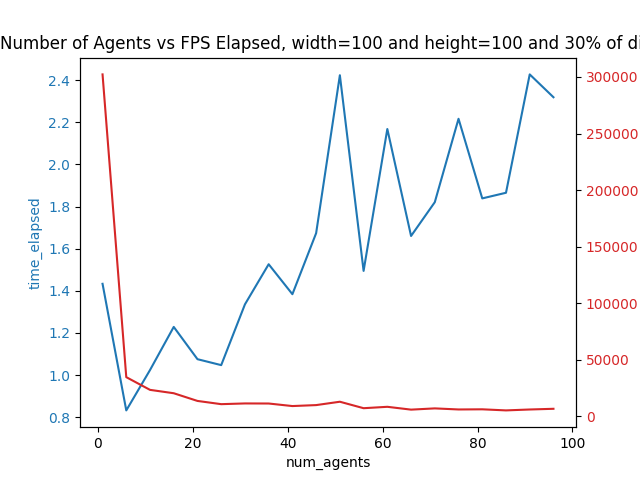
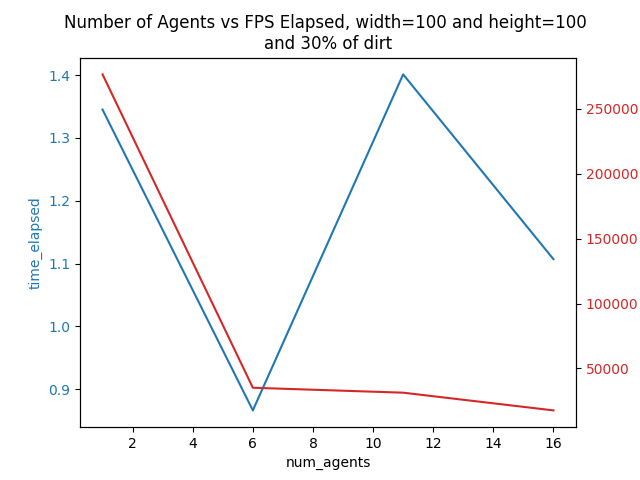
estandarizacion del codigo

diff --git a/Actividad_1.py b/Actividad_1.py
@@ -1,20 +1,32 @@
-# La clase `Model` se hace cargo de los atributos a nivel del modelo, maneja los agentes.
-# Cada modelo puede contener múltiples agentes y todos ellos son instancias de la clase `Agent`.
+# Description:
+# In this you can find our class Model, and the respective Agents.
+# you can also find methods to generate graphs
+
+# Autores:
+#           A01754650 - Andres I. Rodriguez Mendez
+#           A01798012 - Arturo Montes Gonzalez
+
+# Fecha: 09/11/2023
+
 from mesa import Agent, Model
 from mesa.time import BaseScheduler, SimultaneousActivation, StagedActivation
-from mesa.space import MultiGrid 
+from mesa.space import MultiGrid
 from time import sleep, time, process_time
 import numpy as np
 import random
 import sys
 import matplotlib.pyplot as plt
 
+
 def make_graph(steps):
+    # Function that receives a list of steps and plots a graph
     agent_ids = list(range(len(steps)))
-    plt.plot(agent_ids, steps, marker='o', linestyle='-')
+    plt.plot(agent_ids, steps, marker="o", linestyle="-")
     plt.savefig("line_plot.png")
 
+
 def run_batch(width, height, dirty_percentage, max_agents, step_size):
+    # Function that runs a batch an generates graphs
     num_agents = []
     time_elapsed = []
     fps_elapsed = []
@@ -24,33 +36,35 @@ def run_batch(width, height, dirty_percentage, max_agents, step_size):
         fps = 0
         while True:
             try:
-                fps+=1
+                fps += 1
                 model.step()
             except Exception as _:
                 break
-        print(f"-------------------------")
+        print("-------------------------")
         num_agents.append(i)
         time_elapsed.append(model.time_elapsed)
         fps_elapsed.append(fps)
 
     fig, ax1 = plt.subplots()
 
-    ax1.set_xlabel('num_agents')
-    ax1.set_ylabel('time_elapsed', color='tab:blue')
-    ax1.plot(num_agents, time_elapsed, color='tab:blue')
-    ax1.tick_params(axis='y', labelcolor='tab:blue')
+    ax1.set_xlabel("num_agents")
+    ax1.set_ylabel("time_elapsed", color="tab:blue")
+    ax1.plot(num_agents, time_elapsed, color="tab:blue")
+    ax1.tick_params(axis="y", labelcolor="tab:blue")
 
     ax2 = ax1.twinx()
-    ax2.set_ylabel('fps_elapsed', color='tab:red')
-    ax2.plot(num_agents, fps_elapsed, color='tab:red')
-    ax2.tick_params(axis='y', labelcolor='tab:red')
+    ax2.set_ylabel("fps_elapsed", color="tab:red")
+    ax2.plot(num_agents, fps_elapsed, color="tab:red")
+    ax2.tick_params(axis="y", labelcolor="tab:red")
 
-
-    plt.title(f'Number of Agents vs FPS Elapsed, {width=} and {height=} and {dirty_percentage}% of dirt')
+    plt.title(
+        f"Number of Agents vs FPS Elapsed, {width=} and {height=} \nand {dirty_percentage}% of dirt"
+    )
     plt.savefig("batch.png")
-    print(fps_elapsed)
+
 
 def run_batch_fps(width, height, dirty_percentage, max_agents, step_size):
+    # Function that generates a line-graph based on fps vs num_agents
     num_agents = []
     fps_elapsed = []
     for i in range(1, max_agents + 1, step_size):
@@ -59,7 +73,7 @@ def run_batch_fps(width, height, dirty_percentage, max_agents, step_size):
         fps = 0
         while True:
             try:
-                fps+=1
+                fps += 1
                 model.step()
             except Exception as _:
                 break
@@ -67,12 +81,17 @@ def run_batch_fps(width, height, dirty_percentage, max_agents, step_size):
         num_agents.append(i)
         fps_elapsed.append(fps)
 
-    plt.plot(num_agents, time_elapsed, marker='o', linestyle='-')
-    plt.xlabel('Number of Agents')
-    plt.ylabel('Time Elapsed (units)')
-    plt.title(f'Number of Agents vs Time Elapsed, {width=} and {height=} and {dirty_percentage}% of dirt')
-    plt.savefig("batch.png")
+    plt.plot(num_agents, fps_elapsed, marker="o", linestyle="-")
+    plt.xlabel("Number of Agents")
+    plt.ylabel("FPS Elapsed (units)")
+    plt.title(
+        f"Number of Agents vs Fps Elapsed, \num_agents{width=} and {height=} and {dirty_percentage}% of dirt"
+    )
+    plt.savefig("fpsBatch.png")
+
+
 def run_individual(width, height, num_agents, dirty_percentage, max_time):
+    # Function to test individual models
     model = MapaModel(width, height, num_agents, dirty_percentage, max_time)
     while True:
         try:
@@ -80,41 +99,44 @@ def run_individual(width, height, num_agents, dirty_percentage, max_time):
         except Exception as _:
             break
 
-    print(num_agents)
-    print(time_elapsed)
 
-
-
-class AspiradoraAgent(Agent):
-
+class VacuumCleaner(Agent):
+    # Class that models the behaviour of the aspiradora
     def __init__(self, unique_id, model):
+        # Constructur of aspiradora
         super().__init__(unique_id, model)
         self.live = 1
         self.position = (0, 0)
         self.steps_taken = 0
 
     def move(self):
+        # Function that defines how a vaccum cleaner moves
+
         positions = self.model.grid.get_neighborhood(
-                self.position,
-                moore=True,
-                include_center=False
-                )
-        
-        possible_steps = tuple([(px, py) for (px, py) in positions 
-                                    if abs(px - self.position[0]) <=1 
-                                    and abs(py - self.position[1]) <= 1])
+            self.position, moore=True, include_center=False
+        )  # Get all neighbours
+
+        possible_steps = tuple(  # positions may contain invalid
+            # positions that we need to filter
+            [
+                (px, py)
+                for (px, py) in positions
+                if abs(px - self.position[0]) <= 1 and abs(py - self.position[1]) <= 1
+            ]
+        )
+
         new_position = self.random.choice(possible_steps)
-        
         cell = self.model.grid.get_cell_list_contents(new_position)
+        # We need to check if the cell we are trying to move into
+        # is valid, if it has trash we delete it
         for value in cell:
-            if type(value) is BasuraAgent:
+            if type(value) is Dirt:
                 self.model.grid.remove_agent(value)
                 cell = self.model.grid.get_cell_list_contents(new_position)
                 self.model.cleaned_cells += 1
                 break
 
-        if len(cell) == 0:
-            #print(new_position)
+        if len(cell) == 0: #if the cell is empty, we move into it
             self.position = new_position
             self.steps_taken += 1
             self.model.grid.move_agent(self, new_position)
@@ -123,19 +145,17 @@ class AspiradoraAgent(Agent):
         self.move()
 
     def advance(self):
-
-        print("",end="")
-
+        print("", end="")
 
 
-class BasuraAgent(Agent):
-
+class Dirt(Agent):
+    # Class that models the behaviour of dirt
     def __init__(self, unique_id, model, state):
         super().__init__(unique_id, model)
-        self.live = state 
+        self.live = state
+
 
 class MapaModel(Model):
-    
     def __init__(self, width, height, num_agents, dirty_percentage, max_time):
         self.num_agents = num_agents
         self.dirty_percentage = dirty_percentage
@@ -144,27 +164,27 @@ class MapaModel(Model):
         self.grid = MultiGrid(width, height, True)
         self.schedule = SimultaneousActivation(self)
         self.cleaned_cells = 0
-        self.celdas_sucias = (width * height*self.dirty_percentage)  // 100
+        self.celdas_sucias = (width * height * self.dirty_percentage) // 100
         self.running = True  # Para la visualizacion usando navegador
         self.start_time = time()
         self.prev_time = self.start_time
         self.end_time = 0
         self.time_elapsed = 0
         
-        
+        # Vacuum cleaners initialization
         for i in range(self.num_agents):
-            agent = AspiradoraAgent(i, self)
-            self.grid.place_agent(agent, (1,1))
+            agent = VacuumCleaner(i, self)
+            self.grid.place_agent(agent, (1, 1))
             self.schedule.add(agent)
 
-        
+        # Trash positions initialization
         for _ in range(self.celdas_sucias):
             x = random.randrange(self.grid.width)
             y = random.randrange(self.grid.height)
             cell = self.grid.get_cell_list_contents((x, y))
             res = not cell
             if not cell:
-                dirt = BasuraAgent((x,y),self, 1)
+                dirt = Dirt((x, y), self, 1)
                 self.grid.place_agent(dirt, (x, y))
             else:
                 while res != True:
@@ -173,42 +193,43 @@ class MapaModel(Model):
                     cell = self.grid.get_cell_list_contents((x, y))
                     res = not cell
                     if not cell:
-                        dirt = BasuraAgent((x,y),self, 1)
+                        dirt = Dirt((x, y), self, 1)
                         self.grid.place_agent(dirt, (x, y))
-                        
 
     def step(self):
         self.schedule.step()
+        cleaned_percentage = self.cleaned_cells * 100 / self.celdas_sucias
 
-
-        cleaned_percentage = (self.cleaned_cells*100/self.celdas_sucias)
-
+        # Update the user on how the progress is going
         if time() - self.prev_time >= 3.0:
             print(f"Se ha limpiado el: {cleaned_percentage:.2f}% de celdas sucias")
             self.prev_time = time()
-
-
+        
+        # If all cells are cleaned we halt the program
         if self.cleaned_cells == self.celdas_sucias:
             self.end_time = time()
             steps = [agent.steps_taken for agent in self.schedule.agents]
             total_steps = sum(steps)
             self.time_elapsed = self.end_time - self.start_time
-            print(f'Tiempo transcurrido {self.time_elapsed}')
-            print(f'Todas las celdas se han limpiado {self.cleaned_cells}')
-            print(f'El total de pasos tomados fue: {total_steps}')
+            print(f"Tiempo transcurrido {self.time_elapsed}")
+            print(f"Todas las celdas se han limpiado {self.cleaned_cells}")
+            print(f"El total de pasos tomados fue: {total_steps}")
             self.running = False
             raise Exception
-            
+
+        #If we exceed the time limit we stop the program
         elif self.max_time < time() - self.start_time:
             steps = [agent.steps_taken for agent in self.schedule.agents]
             total_steps = sum(steps)
             self.time_elapsed = time() - self.start_time
-            print(f'El Tiempo ha terminado: {self.time_elapsed}')
-            print(f'Se limpio el {cleaned_percentage:.2f}% de celdas sucias')
-            print(f'El total de pasos tomados fue: {total_steps}')
+            print(f"El Tiempo ha terminado: {self.time_elapsed}")
+            print(f"Se limpio el {cleaned_percentage:.2f}% de celdas sucias")
+            print(f"El total de pasos tomados fue: {total_steps}")
             self.running = False
             raise Exception
-            
-             
+
+
 if __name__ == "__main__":
-    run_batch(100, 100, 30, 100, 5)
+    run_individual(100,100,20,30,10000)
+    #run_batch(100, 100, 30, 20, 5)
+    #run_batch_fps(100, 100, 30, 20, 5)

diff --git a/Actividad_1_VIZ.py b/Actividad_1_VIZ.py
@@ -1,6 +1,13 @@
-"""
-AUN NO SE QUE ONDA AQUI
-"""
+# Description: 
+# In this you can find our class Model, and the respective Agents.
+# you can also find methods to generate graphs
+
+# Autores: 
+#           A01754650 - Andres I. Rodriguez Mendez
+#           A01798012 - Arturo Montes Gonzalez
+
+# Fecha: 09/11/2023
+
 from Actividad_1 import *
 from mesa.visualization.modules import CanvasGrid
 from mesa.visualization.ModularVisualization import ModularServer
@@ -10,7 +17,7 @@ from time import sleep
 
 def agent_portrayal(agent):
     portrayal = {}
-    if type(agent) is AspiradoraAgent:
+    if type(agent) is VacuumCleaner:
         portrayal = {
             "Shape": "circle",
             "Filled": "true",
@@ -18,7 +25,7 @@ def agent_portrayal(agent):
             "Color": "red",
             "r": 0.5,
         }
-    if type(agent) is BasuraAgent:
+    if type(agent) is Dirt:
         portrayal = {
             "Shape": "rect",
             "Filled": "true",
@@ -34,20 +41,20 @@ def agent_portrayal(agent):
     return portrayal
 
 
-ancho = 3 
-alto = 3 
+width = 3 
+height = 3 
 num_agents = 1 
 dirty_percentage = 90 
 max_time= 100000000000 
-grid = CanvasGrid(agent_portrayal, ancho, alto, 800, 800)
+grid = CanvasGrid(agent_portrayal, width, height, 800, 800)
 
 server = ModularServer(
     MapaModel,
     [grid],
     "Cleaning the grid",
     {
-        "width": ancho,
-        "height": alto,
+        "width": width,
+        "height":  height,
         "num_agents": num_agents,
         "dirty_percentage": dirty_percentage,
         "max_time": max_time,
